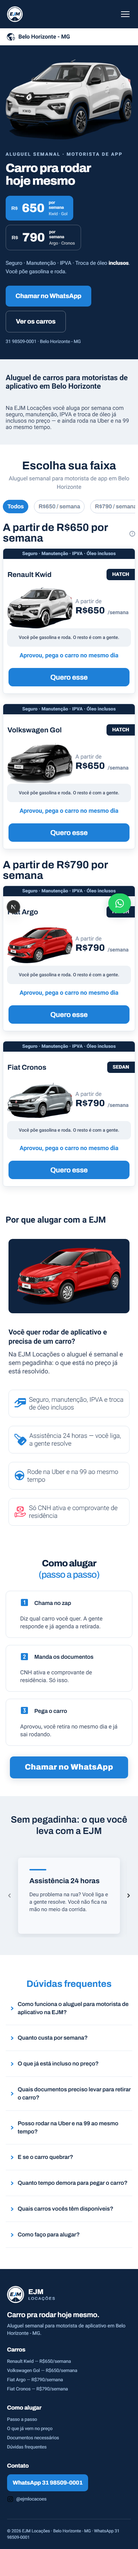
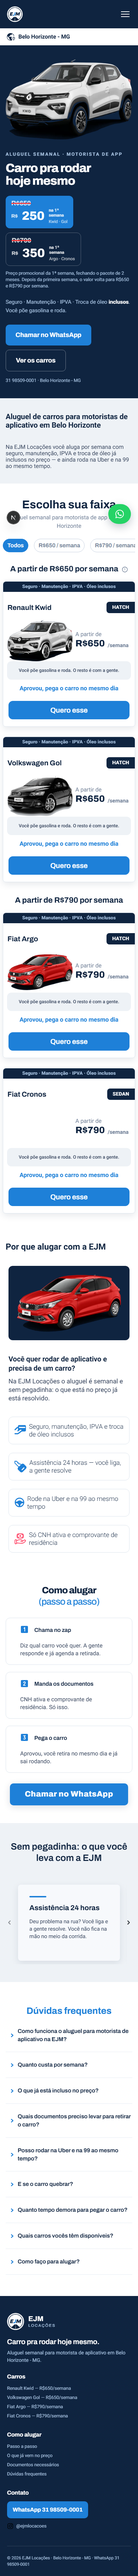
Add first-week promo pricing to the hero
R$650 and R$790 are now shown struck through in red with the promotional
first-week prices (R$250 / R$350) beside them, plus a small line stating the
condition: first week only, when closing the 2-month package, after which the
regular weekly price applies.

The struck price carries an aria-label spelling out "De R$X por semana" so the
strike-through is not the only cue.

Claude-Session: https://claude.ai/code/session_01TWumGSrvCAohrFsRfv4oXr

Changed region(s): [[0.0, 0.0, 1.0, 0.9999]]

diff --git a/src/components/ejm/HeroBanner.tsx b/src/components/ejm/HeroBanner.tsx
@@ -22,9 +22,24 @@ export function HeroBanner() {
           </p>
 
           <div className="mt-6 flex flex-wrap items-stretch gap-3">
-            <PriceTag value="650" models="Kwid · Gol" tone="solid" />
-            <PriceTag value="790" models="Argo · Cronos" tone="outline" />
+            <PriceTag
+              oldValue="650"
+              value="250"
+              models="Kwid · Gol"
+              tone="solid"
+            />
+            <PriceTag
+              oldValue="790"
+              value="350"
+              models="Argo · Cronos"
+              tone="outline"
+            />
           </div>
+
+          <p className="mt-3 mb-0 max-w-[560px] font-ejm-sans text-[13px] leading-[18px] text-ejm-muted-on-navy">
+            Preço promocional da 1ª semana, fechando o pacote de 2 meses. Depois
+            da primeira semana, o valor volta para R$650 e R$790 por semana.
+          </p>
 
           <p className="mt-6 mb-0 font-ejm-sans text-[15px] leading-6 text-ejm-muted-on-navy">
             Seguro · Manutenção · IPVA · Troca de óleo{" "}
@@ -70,10 +85,14 @@ export function HeroBanner() {
 }
 
 function PriceTag({
+  oldValue,
   value,
   models,
   tone,
 }: {
+  /** Regular weekly price, shown struck through. */
+  oldValue: string;
+  /** Promotional first-week price. */
   value: string;
   models: string;
   tone: "solid" | "outline";
@@ -83,22 +102,33 @@ function PriceTag({
     <div
       className={
         solid
-          ? "flex items-center gap-3 rounded-[12px] bg-ejm-blue px-4 py-3"
-          : "flex items-center gap-3 rounded-[12px] border border-white/30 px-4 py-3"
+          ? "flex flex-col gap-1 rounded-[12px] bg-ejm-blue px-4 py-3"
+          : "flex flex-col gap-1 rounded-[12px] border border-white/30 px-4 py-3"
       }
     >
-      <span className="font-ejm-display text-[14px] font-bold text-white/80">
-        R$
+      {/* Regular price, struck out in red. aria-label spells it out so the
+          strike-through is not the only thing carrying the meaning. */}
+      <span
+        className="font-ejm-display text-[18px] leading-none font-bold text-white/85 line-through decoration-[#ff3b3b] decoration-[3px]"
+        aria-label={`De R$${oldValue} por semana`}
+      >
+        R${oldValue}
       </span>
-      <span className="font-ejm-display text-[34px] leading-none font-extrabold text-white">
-        {value}
-      </span>
-      <span className="font-ejm-sans text-[12px] leading-[14px] font-semibold text-white/85">
-        por
-        <br />
-        semana
-        <span className="mt-1 block font-normal text-white/70">{models}</span>
-      </span>
+
+      <div className="flex items-center gap-3">
+        <span className="font-ejm-display text-[14px] font-bold text-white/80">
+          R$
+        </span>
+        <span className="font-ejm-display text-[34px] leading-none font-extrabold text-white">
+          {value}
+        </span>
+        <span className="font-ejm-sans text-[12px] leading-[14px] font-semibold text-white/85">
+          na 1ª
+          <br />
+          semana
+          <span className="mt-1 block font-normal text-white/70">{models}</span>
+        </span>
+      </div>
     </div>
   );
 }
